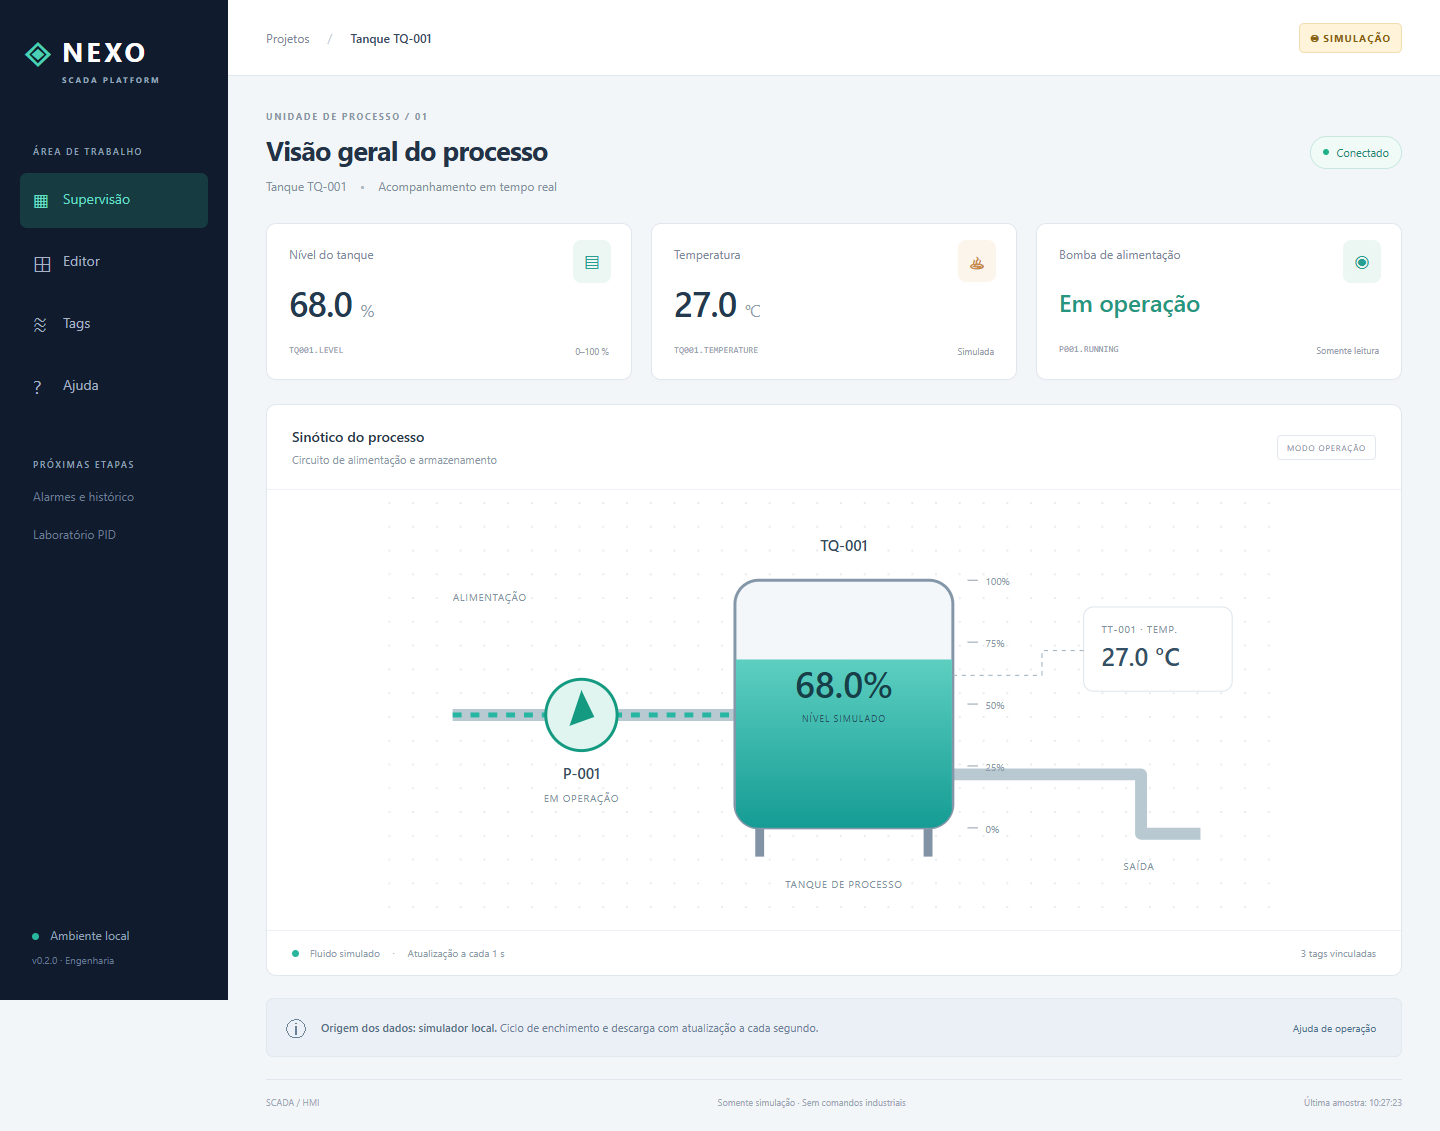
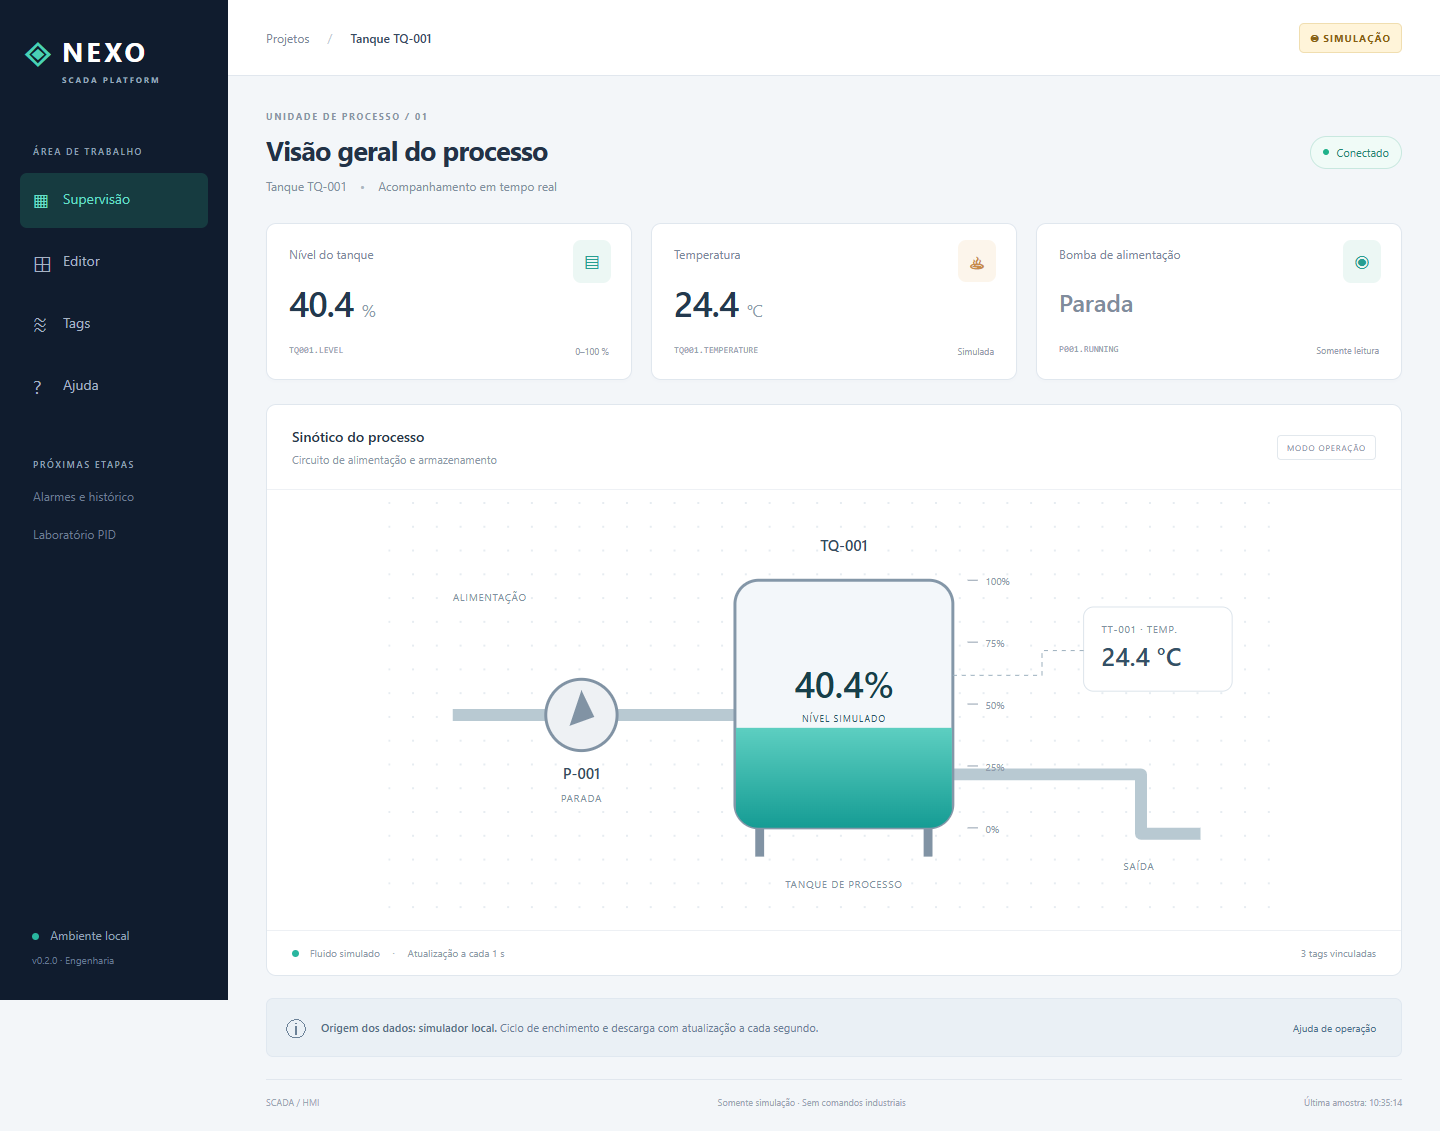
Document verified public demo deployment

diff --git a/docs/CODIGO_COMPLETO.md b/docs/CODIGO_COMPLETO.md
@@ -502,7 +502,7 @@ class TankSimulatorTest {
 - Dockerfile com testes durante o build e execução sem privilégios.
 - Configuração Render Free com publicação automática da main após conexão da conta.
 - Pacote validado localmente: 21 testes frontend, 5 Java e 6 de navegador.
-- Criação do serviço público e build da imagem no provedor ainda pendentes.
+- Serviço público e imagem Docker validados no Render; seis testes de navegador aprovados no endereço público.
 
 ## 0.2.0 — 06/11/2026
 
@@ -684,7 +684,7 @@ Não colocar chaves ou tokens no repositório, Dockerfile ou frontend. Esta demo
 4. Usar `/api/health` como verificação de saúde. Não cadastrar banco de dados nesta etapa.
 5. Aguardar a compilação e conferir HTTPS, WebSocket, editor e exportação de JSON na URL retornada pelo provedor.
 
-O arquivo de configuração preparado não significa que o serviço já existe. A conexão da conta, criação do serviço e verificação da publicação são etapas obrigatórias.
+Publicado em 06/11/2026: https://nexo-scada-demo.onrender.com. Serviço nexo-scada-demo, plano Free, região Virginia, branch main, atualização automática habilitada. Criado diretamente como Web Service; render.yaml permanece como modelo para reproduzir a infraestrutura e não está vinculado a um Blueprint. A ferramenta de criação não configurou healthCheckPath: o provedor usa sua verificação padrão, e /api/health foi conferido externamente com resposta UP. Os seis testes de navegador passaram contra o endereço público.
 
 ## Atualizações
 
@@ -721,7 +721,7 @@ $env:E2E_BASE_URL = 'http://127.0.0.1:8081'
 npm.cmd run test:e2e
 ```
 
-Se Docker estiver instalado, `docker build -t nexo-scada .` constrói a imagem e `docker run --rm -p 127.0.0.1:8080:8080 nexo-scada` inicia a demonstração no computador. Docker não estava instalado no ambiente da preparação; não presumir validação da imagem até concluir um build real no provedor.
+Se Docker estiver instalado, `docker build -t nexo-scada .` constrói a imagem e `docker run --rm -p 127.0.0.1:8080:8080 nexo-scada` inicia a demonstração no computador. Docker não está instalado localmente; o build real da imagem foi concluído e validado no Render.
 
 ## Limites de segurança
 
@@ -817,7 +817,7 @@ Editor integrado e validado com o simulador Java. A supervisão existente perman
 - Dependências npm: instalação concluída; auditoria reportou zero vulnerabilidades no momento da instalação.
 - Backend: **5 testes Java aprovados**, incluindo cabeçalhos do perfil hosted.
 - Pacote integrado: build com perfil Maven web-ui aprovado; os 6 testes de navegador também passaram contra o JAR em modo hosted na porta local 8081.
-- Docker não está instalado neste ambiente. Build Linux da imagem, HTTPS público e implantação no provedor ainda não foram validados.
+- Docker não está instalado localmente; a imagem Linux foi construída pelo Render. HTTPS público e seis testes de navegador aprovados em https://nexo-scada-demo.onrender.com.
 
 ## Cobertura do editor
 
@@ -4155,7 +4155,7 @@ Backend em 127.0.0.1:8080; frontend Vite em 127.0.0.1:5173. Não há banco, brok
 
 Não publicar o servidor de desenvolvimento na internet. Para hospedagem, o Dockerfile da raiz reúne interface e Java em um serviço. O render.yaml prepara uma demonstração gratuita, com atualizações da main após conectar a conta ao GitHub. O perfil hosted usa o proxy HTTPS do provedor. Não há dados privados ou equipamentos físicos.
 
-Consulte o [guia de publicação](../docs/deployment.md). A criação do serviço público ainda está pendente. PostgreSQL e Flyway entram quando houver persistência.
+Consulte o [guia de publicação](../docs/deployment.md). Serviço publicado em https://nexo-scada-demo.onrender.com. PostgreSQL e Flyway entram quando houver persistência.
 ````
 
 ## README.md
@@ -4221,7 +4221,7 @@ Interrompa cada processo com Ctrl+C. Esses servidores de desenvolvimento escutam
 
 ## Publicação da demonstração
 
-O pacote de hospedagem reúne interface e Java em um único serviço. `Dockerfile` e `render.yaml` preparam a demonstração pública no Render, com atualizações automáticas a partir da branch main após conectar o GitHub. A criação do serviço e a verificação da URL pública ainda estão pendentes.
+O pacote de hospedagem reúne interface e Java em um único serviço. `Dockerfile` e `render.yaml` preparam a demonstração pública no Render, com atualizações automáticas a partir da branch main após conectar o GitHub. Publicado e verificado em https://nexo-scada-demo.onrender.com em 06/11/2026. Atualização automática da main habilitada.
 
 Veja o [guia de publicação](docs/deployment.md) para configurar a conta, gerar o pacote e entender os limites do plano gratuito. A demonstração usa apenas dados simulados; autenticação e uso com dados reais serão etapas posteriores.
 

diff --git a/docs/deployment.md b/docs/deployment.md
@@ -25,7 +25,7 @@ Não colocar chaves ou tokens no repositório, Dockerfile ou frontend. Esta demo
 4. Usar `/api/health` como verificação de saúde. Não cadastrar banco de dados nesta etapa.
 5. Aguardar a compilação e conferir HTTPS, WebSocket, editor e exportação de JSON na URL retornada pelo provedor.
 
-O arquivo de configuração preparado não significa que o serviço já existe. A conexão da conta, criação do serviço e verificação da publicação são etapas obrigatórias.
+Publicado em 06/11/2026: https://nexo-scada-demo.onrender.com. Serviço nexo-scada-demo, plano Free, região Virginia, branch main, atualização automática habilitada. Criado diretamente como Web Service; render.yaml permanece como modelo para reproduzir a infraestrutura e não está vinculado a um Blueprint. A ferramenta de criação não configurou healthCheckPath: o provedor usa sua verificação padrão, e /api/health foi conferido externamente com resposta UP. Os seis testes de navegador passaram contra o endereço público.
 
 ## Atualizações
 
@@ -62,7 +62,7 @@ $env:E2E_BASE_URL = 'http://127.0.0.1:8081'
 npm.cmd run test:e2e
 ```
 
-Se Docker estiver instalado, `docker build -t nexo-scada .` constrói a imagem e `docker run --rm -p 127.0.0.1:8080:8080 nexo-scada` inicia a demonstração no computador. Docker não estava instalado no ambiente da preparação; não presumir validação da imagem até concluir um build real no provedor.
+Se Docker estiver instalado, `docker build -t nexo-scada .` constrói a imagem e `docker run --rm -p 127.0.0.1:8080:8080 nexo-scada` inicia a demonstração no computador. Docker não está instalado localmente; o build real da imagem foi concluído e validado no Render.
 
 ## Limites de segurança
 

diff --git a/README.md b/README.md
@@ -59,7 +59,7 @@ Interrompa cada processo com Ctrl+C. Esses servidores de desenvolvimento escutam
 
 ## Publicação da demonstração
 
-O pacote de hospedagem reúne interface e Java em um único serviço. `Dockerfile` e `render.yaml` preparam a demonstração pública no Render, com atualizações automáticas a partir da branch main após conectar o GitHub. A criação do serviço e a verificação da URL pública ainda estão pendentes.
+O pacote de hospedagem reúne interface e Java em um único serviço. `Dockerfile` e `render.yaml` preparam a demonstração pública no Render, com atualizações automáticas a partir da branch main após conectar o GitHub. Publicado e verificado em https://nexo-scada-demo.onrender.com em 06/11/2026. Atualização automática da main habilitada.
 
 Veja o [guia de publicação](docs/deployment.md) para configurar a conta, gerar o pacote e entender os limites do plano gratuito. A demonstração usa apenas dados simulados; autenticação e uso com dados reais serão etapas posteriores.
 

diff --git a/docs/validation.md b/docs/validation.md
@@ -15,7 +15,7 @@ Editor integrado e validado com o simulador Java. A supervisão existente perman
 - Dependências npm: instalação concluída; auditoria reportou zero vulnerabilidades no momento da instalação.
 - Backend: **5 testes Java aprovados**, incluindo cabeçalhos do perfil hosted.
 - Pacote integrado: build com perfil Maven web-ui aprovado; os 6 testes de navegador também passaram contra o JAR em modo hosted na porta local 8081.
-- Docker não está instalado neste ambiente. Build Linux da imagem, HTTPS público e implantação no provedor ainda não foram validados.
+- Docker não está instalado localmente; a imagem Linux foi construída pelo Render. HTTPS público e seis testes de navegador aprovados em https://nexo-scada-demo.onrender.com.
 
 ## Cobertura do editor
 

diff --git a/infrastructure/README.md b/infrastructure/README.md
@@ -4,4 +4,4 @@ Backend em 127.0.0.1:8080; frontend Vite em 127.0.0.1:5173. Não há banco, brok
 
 Não publicar o servidor de desenvolvimento na internet. Para hospedagem, o Dockerfile da raiz reúne interface e Java em um serviço. O render.yaml prepara uma demonstração gratuita, com atualizações da main após conectar a conta ao GitHub. O perfil hosted usa o proxy HTTPS do provedor. Não há dados privados ou equipamentos físicos.
 
-Consulte o [guia de publicação](../docs/deployment.md). A criação do serviço público ainda está pendente. PostgreSQL e Flyway entram quando houver persistência.
+Consulte o [guia de publicação](../docs/deployment.md). Serviço publicado em https://nexo-scada-demo.onrender.com. PostgreSQL e Flyway entram quando houver persistência.

diff --git a/CHANGELOG.md b/CHANGELOG.md
@@ -6,7 +6,7 @@
 - Dockerfile com testes durante o build e execução sem privilégios.
 - Configuração Render Free com publicação automática da main após conexão da conta.
 - Pacote validado localmente: 21 testes frontend, 5 Java e 6 de navegador.
-- Criação do serviço público e build da imagem no provedor ainda pendentes.
+- Serviço público e imagem Docker validados no Render; seis testes de navegador aprovados no endereço público.
 
 ## 0.2.0 — 06/11/2026
 
